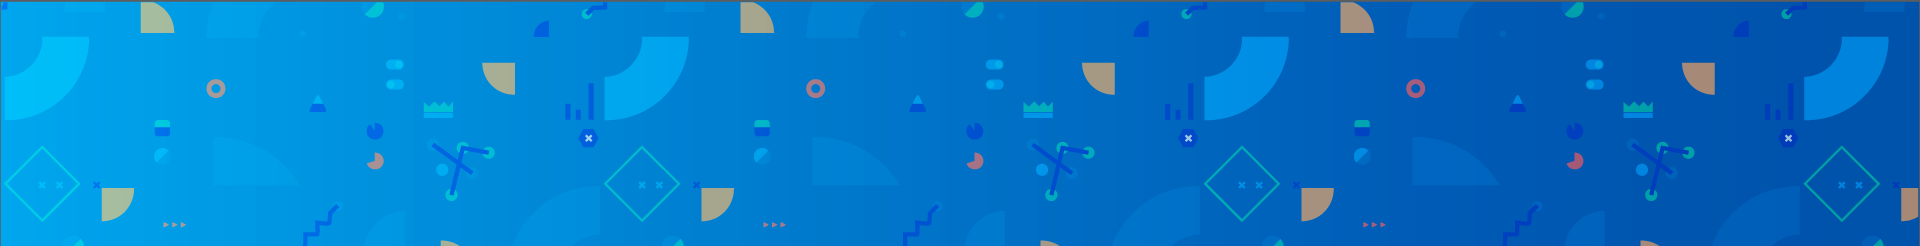
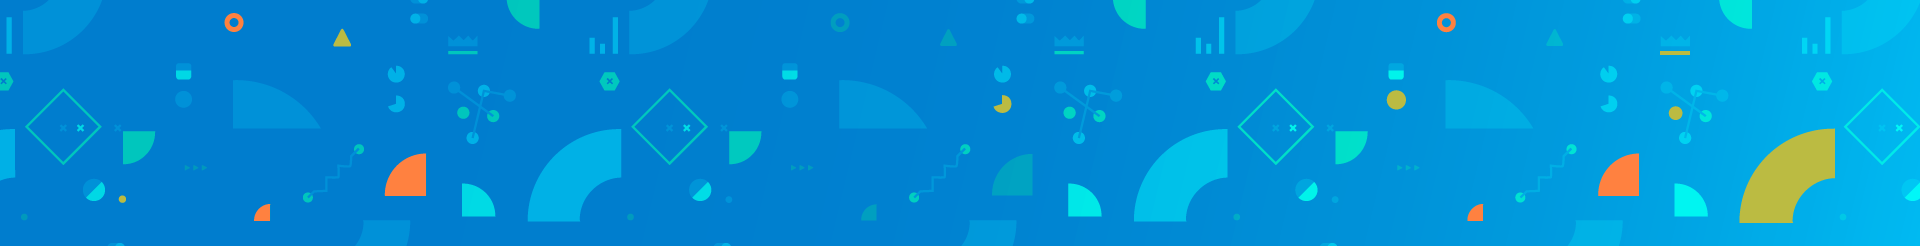
Nueva trama y cambios de estilo en la bajada.

diff --git a/css/gobar_style_lite.css b/css/gobar_style_lite.css
@@ -38,7 +38,7 @@ body {
   }
   .banner-content p {
     font-size: 20px;
-    font-weight: 400;
+    font-weight: 300;
     margin-bottom: 60px;
   }
 
